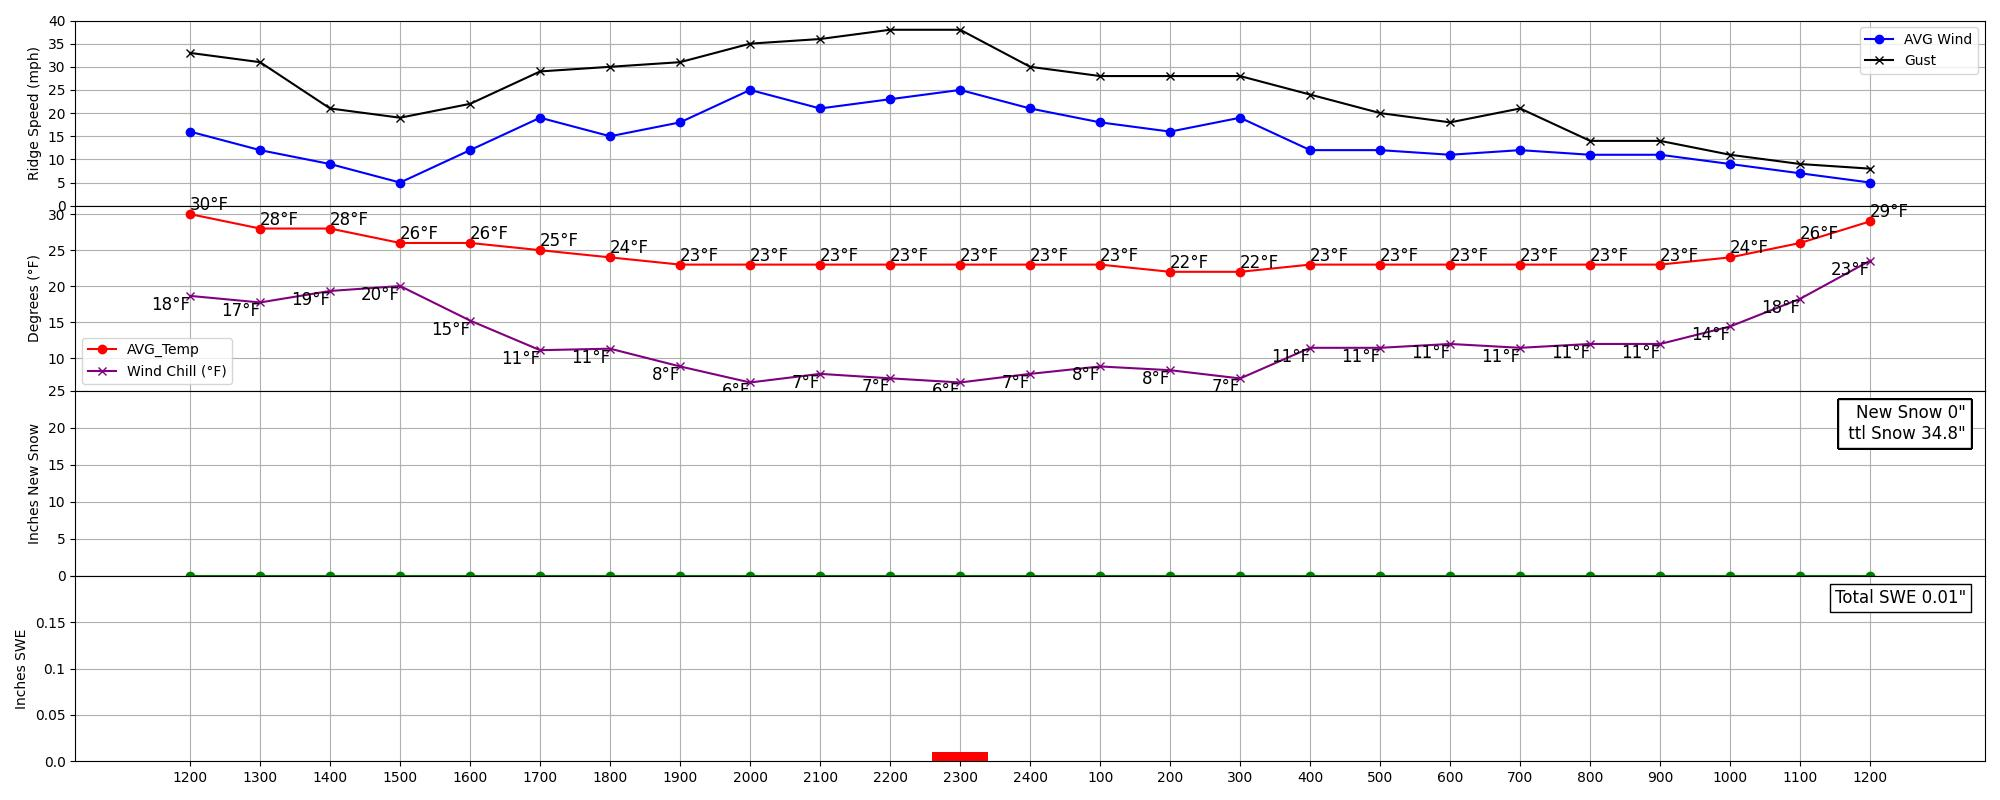
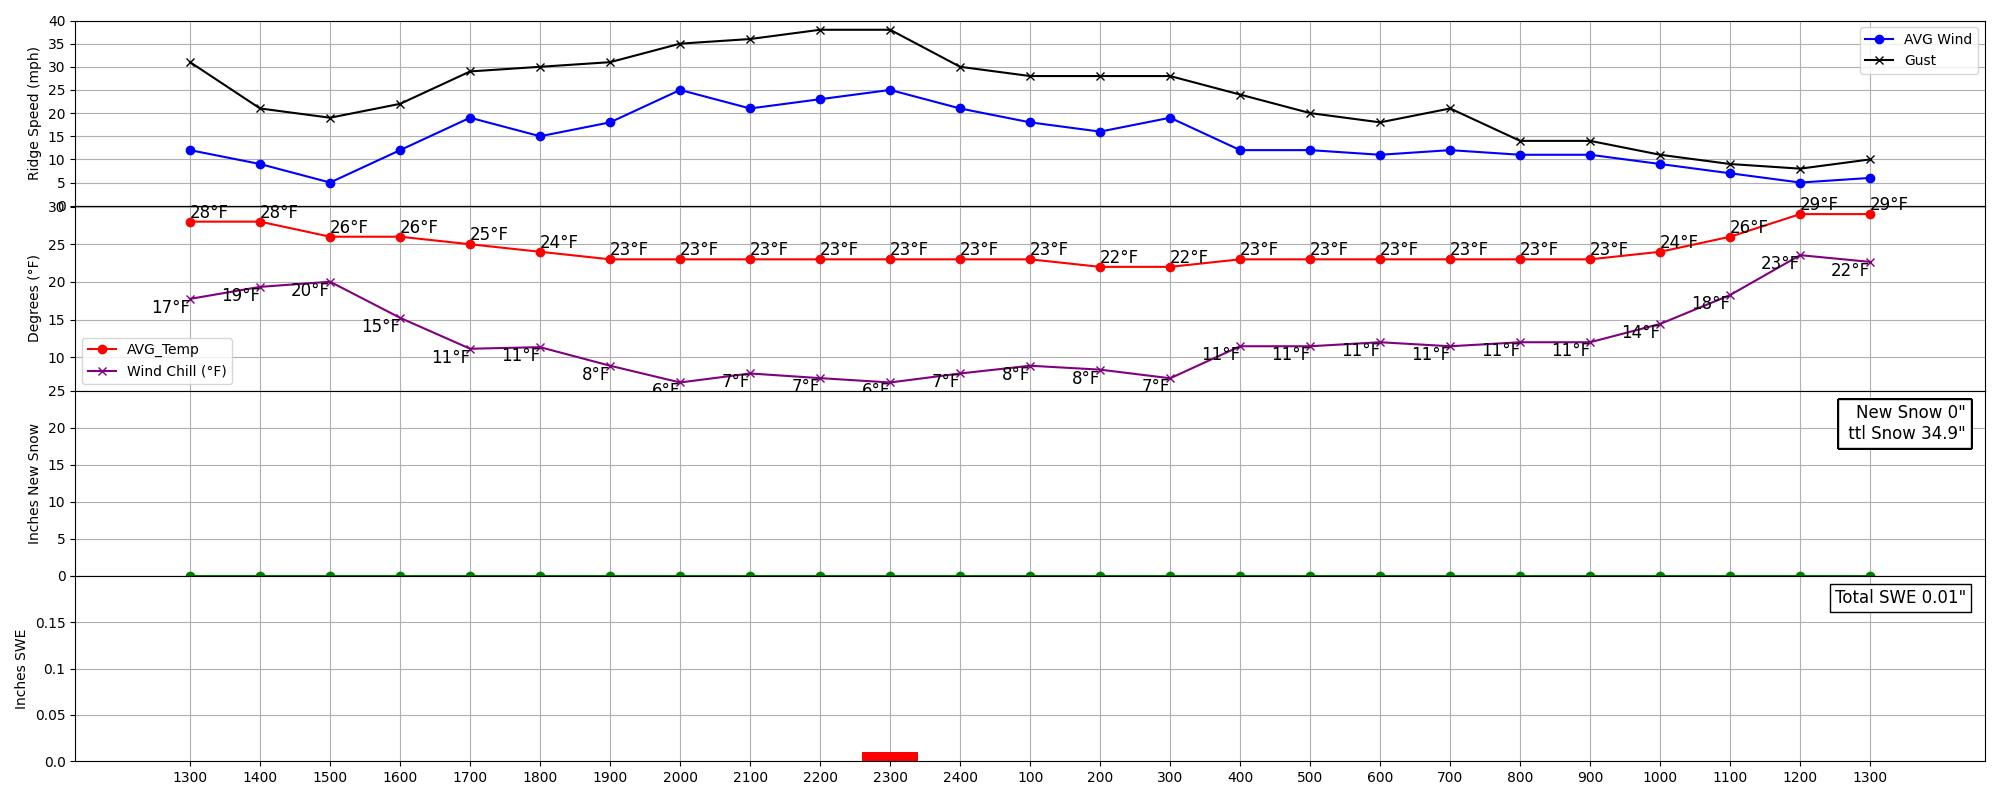
server?

diff --git a/index.html b/index.html
@@ -66,7 +66,7 @@
 </head>
 <body>
     <img src="7216381.png" class="corner-icon" alt="Icon">
-    <p id="myText">YCSP Timberline Weather Report - Last Update 11:55AM Tuesday January 23rd 2024</p>
+    <p id="myText">YCSP Timberline Weather Report - Last Update 1:25PM Tuesday January 23rd 2024</p>
     <hr>
     <div style="display: flex;">
         <!-- Left Column: Image -->
@@ -173,6 +173,34 @@
         </thead>
         <tbody>
             <tr>
+<td>13:00 Tue</td>
+<td>29</td>
+<td>78</td>
+<td>0.0</td>
+<td>0</td>
+<td>34.9</td>
+<td>6</td>
+<td>WSW</td>
+<td>10</td>
+<td>1</td>
+<td>WSW</td>
+<td>8</td>
+</tr>
+<tr>
+<td>12:00 Tue</td>
+<td>29</td>
+<td>81</td>
+<td>0.0</td>
+<td>0</td>
+<td>34.8</td>
+<td>5</td>
+<td>WSW</td>
+<td>8</td>
+<td>0</td>
+<td>WSW</td>
+<td>7</td>
+</tr>
+<tr>
 <td>11:00 Tue</td>
 <td>26</td>
 <td>83</td>
@@ -493,34 +521,6 @@
 <td>4</td>
 <td>SE</td>
 <td>20</td>
-</tr>
-<tr>
-<td>12:00 Mon</td>
-<td>30</td>
-<td>72</td>
-<td>0.0</td>
-<td>0</td>
-<td>35.4</td>
-<td>16</td>
-<td>SW</td>
-<td>33</td>
-<td>6</td>
-<td>SW</td>
-<td>22</td>
-</tr>
-<tr>
-<td>11:00 Mon</td>
-<td>29</td>
-<td>74</td>
-<td>0.0</td>
-<td>0</td>
-<td>35.4</td>
-<td>18</td>
-<td>SW</td>
-<td>33</td>
-<td>6</td>
-<td>SW</td>
-<td>22</td>
 </tr>
 
         </tbody>

diff --git a/modified_HTML_file.html b/modified_HTML_file.html
@@ -66,7 +66,7 @@
 </head>
 <body>
     <img src="7216381.png" class="corner-icon" alt="Icon">
-    <p id="myText">YCSP Timberline Weather Report - Last Update 12:37PM Tuesday January 23rd 2024</p>
+    <p id="myText">YCSP Timberline Weather Report - Last Update 1:25PM Tuesday January 23rd 2024</p>
     <hr>
     <div style="display: flex;">
         <!-- Left Column: Image -->
@@ -173,6 +173,20 @@
         </thead>
         <tbody>
             <tr>
+<td>13:00 Tue</td>
+<td>29</td>
+<td>78</td>
+<td>0.0</td>
+<td>0</td>
+<td>34.9</td>
+<td>6</td>
+<td>WSW</td>
+<td>10</td>
+<td>1</td>
+<td>WSW</td>
+<td>8</td>
+</tr>
+<tr>
 <td>12:00 Tue</td>
 <td>29</td>
 <td>81</td>
@@ -507,20 +521,6 @@
 <td>4</td>
 <td>SE</td>
 <td>20</td>
-</tr>
-<tr>
-<td>12:00 Mon</td>
-<td>30</td>
-<td>72</td>
-<td>0.0</td>
-<td>0</td>
-<td>35.4</td>
-<td>16</td>
-<td>SW</td>
-<td>33</td>
-<td>6</td>
-<td>SW</td>
-<td>22</td>
 </tr>
 
         </tbody>

diff --git a/hoster.py b/hoster.py
@@ -1,0 +1,49 @@
+import os
+import sys
+import webbrowser
+from http.server import HTTPServer, SimpleHTTPRequestHandler
+import shutil
+import assemblymain
+
+def copy_file(source_file, destination_file):
+    try:
+        shutil.copy(source_file, destination_file)
+        print(f"File '{source_file}' copied to '{destination_file}' successfully.")
+    except FileNotFoundError:
+        print(f"File '{source_file}' not found.")
+    except Exception as e:
+        print(f"An error occurred: {str(e)}")
+
+if __name__ == "__main__":
+    source_file = "modified_HTML_file.html" # Replace with the source file path
+    destination_file =  "index.html" # Replace with the destination file path
+
+    copy_file(source_file, destination_file)
+
+
+def start_local_server(port=8000):
+    # Change to the directory where your HTML file is located
+    web_dir = os.path.dirname(__file__)
+    os.chdir(web_dir)
+
+    # Start the HTTP server
+    server_address = ("", port)
+    httpd = HTTPServer(server_address, SimpleHTTPRequestHandler)
+
+    # Print the URL to access the server
+    url = f"http://localhost:{port}"
+    print(f"Local server is running at: {url}")
+
+    # Open the web browser to the server URL
+    webbrowser.open(url)
+
+    try:
+        # Serve the files indefinitely until interrupted
+        httpd.serve_forever()
+    except KeyboardInterrupt:
+        # Terminate the server when Ctrl+C is pressed
+        pass
+
+if __name__ == "__main__":
+    port = 8000  # You can change the port number if needed
+    start_local_server(port)
